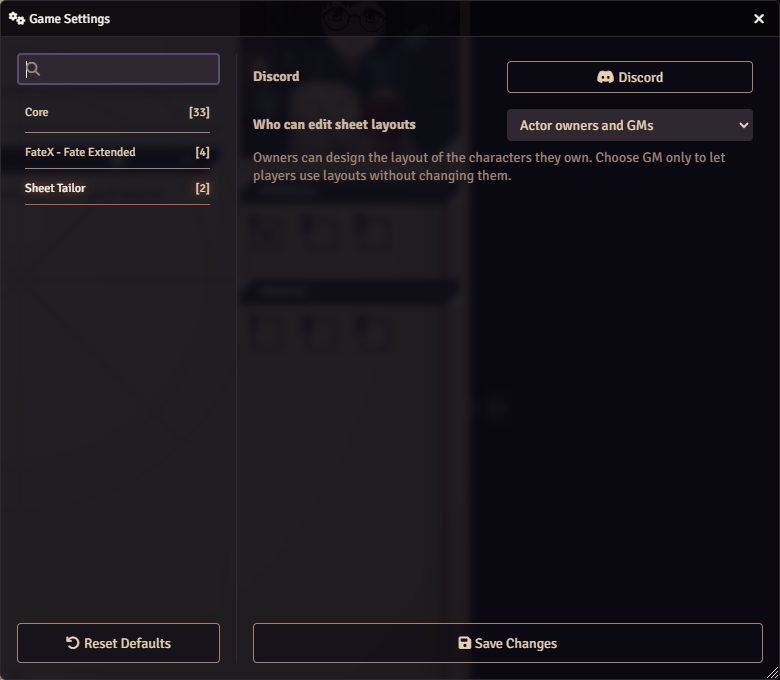
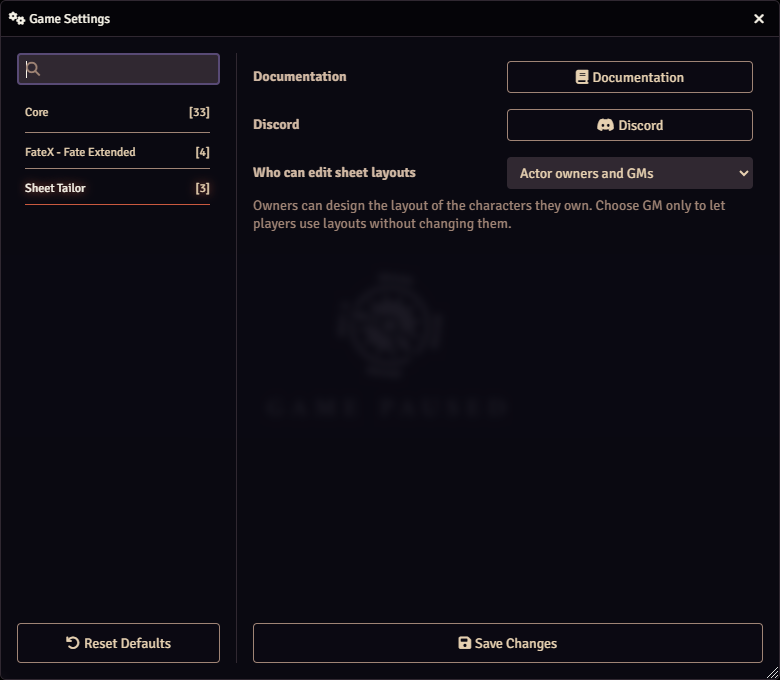
Docs: Documentation button (0.4.3)
The settings page, the customizer and the layout editor pages mention the
new Documentation button next to Discord, in English and Portuguese; the
settings screenshots show both buttons; the versions pages list 0.4.3.

Changed region(s): [[0.3077, 0.1544, 0.9846, 0.3397], [0.3385, 0.0309, 0.4615, 0.1235], [0.7385, 0.0926, 0.8923, 0.1235]]

diff --git a/docs/pt/guia/configuracoes.md b/docs/pt/guia/configuracoes.md
@@ -4,11 +4,12 @@
 
 As configurações ficam em **Game Settings** → **Configure Settings** → **Sheet Tailor**.
 
-![As configurações do Sheet Tailor: o botão Discord e a opção Quem pode editar o layout das fichas](/img/pt/configuracoes.png)
+![As configurações do Sheet Tailor: os botões Documentação e Discord e a opção Quem pode editar o layout das fichas](/img/pt/configuracoes.png)
 
 | Configuração | O que faz |
 | --- | --- |
 | **Quem pode editar o layout das fichas** | **Donos do ator e Mestres** (padrão): cada jogador monta o layout e personaliza a ficha dos personagens que são dele. **Somente Mestres**: só o Mestre edita; os jogadores usam as fichas normalmente, sem o botão de régua e lápis e sem **Personalizar ficha**. |
+| **Documentação** | Abre esta documentação, em português quando o Foundry está em português e em inglês nos outros idiomas. |
 | **Discord** | Abre o convite para a comunidade no Discord: suporte, novidades e sugestões. |
 
 ## Quem pode fazer o quê

diff --git a/docs/guide/settings.md b/docs/guide/settings.md
@@ -4,11 +4,12 @@
 
 The settings are in **Game Settings** → **Configure Settings** → **Sheet Tailor**.
 
-![Sheet Tailor's settings: the Discord button and the Who can edit sheet layouts option](/img/en/configuracoes.png)
+![Sheet Tailor's settings: the Documentation and Discord buttons and the Who can edit sheet layouts option](/img/en/configuracoes.png)
 
 | Setting | What it does |
 | --- | --- |
 | **Who can edit sheet layouts** | **Actor owners and GMs** (default): each player builds the layout and customizes the sheet of the characters they own. **GMs only**: only the GM edits; players use the sheets as usual, without the ruler and pencil button and without **Customize sheet**. |
+| **Documentation** | Opens this documentation, in Portuguese when Foundry runs in Portuguese and in English otherwise. |
 | **Discord** | Opens the invite to the community on Discord: support, news and suggestions. |
 
 ## Who can do what

diff --git a/docs/pt/guia/personalizar-a-ficha.md b/docs/pt/guia/personalizar-a-ficha.md
@@ -27,7 +27,7 @@ No topo ficam **Salvar personalização**, desfazer, refazer e o botão de fecha
 - **Selecionar e mover:** os cliques na ficha selecionam blocos. Nada é rolado nem editado sem querer.
 - **Usar a ficha:** os cliques passam para a ficha, por exemplo para abrir outra aba dela e personalizá-la também.
 
-O painel tem as seções **Bloco selecionado**, **Arte**, **Mudanças**, **Modelos e compartilhamento** e **Teclado e mouse**.
+O painel tem as seções **Bloco selecionado**, **Arte**, **Mudanças**, **Modelos e compartilhamento** e **Teclado e mouse**. No fim ficam os botões **Documentação** e **Discord**.
 
 ![A ficha do FateX com o personalizador aberto ao lado: o bloco de aspectos está selecionado e uma arte de pergaminho aparece por trás](/img/pt/personalizador.png)
 

diff --git a/docs/guide/customize-sheet.md b/docs/guide/customize-sheet.md
@@ -27,7 +27,7 @@ At the top are **Save customization**, undo, redo and the close button. Just bel
 - **Select and move:** clicks on the sheet select blocks. Nothing is rolled or edited by accident.
 - **Use the sheet:** clicks go through to the sheet, for example to open another tab of it and customize that one too.
 
-The panel has the sections **Selected block**, **Artwork**, **Changes**, **Templates and sharing** and **Keyboard and mouse**.
+The panel has the sections **Selected block**, **Artwork**, **Changes**, **Templates and sharing** and **Keyboard and mouse**. At the bottom are the **Documentation** and **Discord** buttons.
 
 ![The FateX sheet with the customizer open next to it: the aspects block is selected and a parchment artwork shows behind it](/img/en/personalizador.png)
 

diff --git a/docs/pt/novidades.md b/docs/pt/novidades.md
@@ -1,5 +1,10 @@
 # Versões
 
+## 0.4.3
+
+- **Botão Documentação** ao lado do botão do Discord: no fim do editor de layout e do personalizador, e em **Configure Settings** → **Sheet Tailor**. Ele abre esta documentação, em português quando o Foundry está em português.
+- O manifesto do módulo passa a apontar para a documentação, para as versões e para o lugar de relatar problemas.
+
 ## 0.4.2
 
 - **Freeform Sheets agora se chama Sheet Tailor.** Outro módulo do catálogo da Foundry já tinha o nome Freeform Sheets. Só o nome mudou: o identificador continua `freeform-sheets`, então layouts, personalizações, modelos, a API e o endereço de instalação continuam iguais, e basta atualizar.

diff --git a/docs/changelog.md b/docs/changelog.md
@@ -1,5 +1,10 @@
 # Versions
 
+## 0.4.3
+
+- **Documentation button** next to the Discord button: at the bottom of the layout editor and of the customizer, and in **Configure Settings** → **Sheet Tailor**. It opens this documentation, in Portuguese when Foundry runs in Portuguese.
+- The module's manifest now links the documentation, the versions and the issue tracker.
+
 ## 0.4.2
 
 - **Freeform Sheets is now Sheet Tailor.** Another module in the Foundry package list was already called Freeform Sheets. Only the name changes: the id is still `freeform-sheets`, so layouts, customizations, templates, the API and the install address stay the same, and updating is all it takes.

diff --git a/docs/pt/guia/editor-de-layout.md b/docs/pt/guia/editor-de-layout.md
@@ -76,6 +76,7 @@ As mudanças de estilo feitas nesse momento valem para todos os elementos seleci
 | **Fundo e tamanho** | A arte, o tamanho e a grade da página, e o texto padrão da ficha. |
 | **Camadas** | Todos os elementos da página, do que está na frente para o que está atrás. |
 | **Layout** | Gerar, importar, exportar e limpar o layout. |
+| **Documentação** e **Discord** | No fim do painel: abrem esta documentação e o convite para a comunidade no Discord. |
 
 ### Camadas
 

diff --git a/docs/guide/layout-editor.md b/docs/guide/layout-editor.md
@@ -76,6 +76,7 @@ Style changes made at that moment apply to every selected element.
 | **Background and size** | The page's artwork, size and grid, and the sheet's default text. |
 | **Layers** | Every element of the page, from front to back. |
 | **Layout** | Generate, import, export and clear the layout. |
+| **Documentation** and **Discord** | At the bottom of the panel: open this documentation and the invite to the community on Discord. |
 
 ### Layers
 
